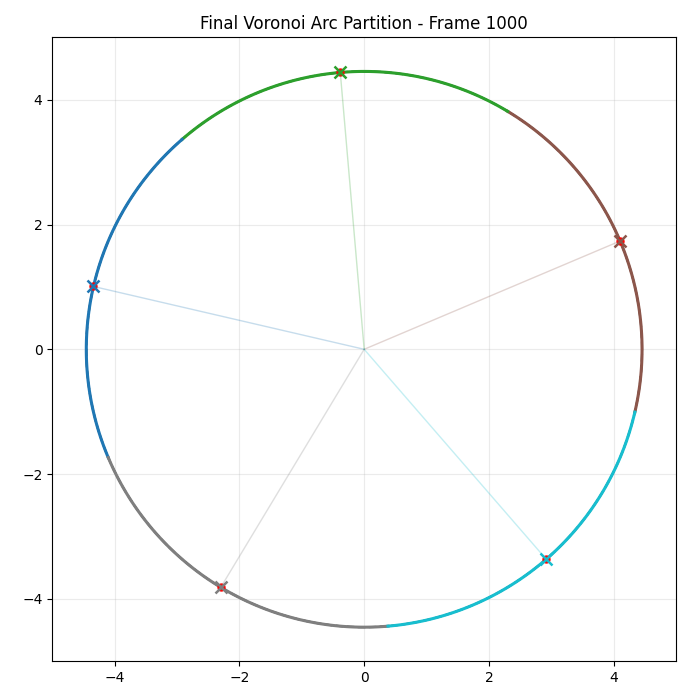
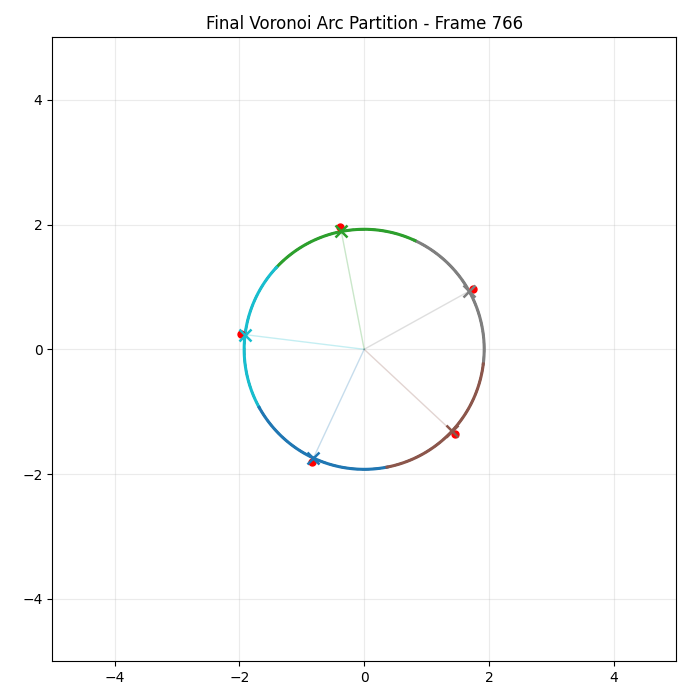
random drone initialization

diff --git a/simulation_engine.py b/simulation_engine.py
@@ -28,6 +28,9 @@ class SimulationEngine:
         self.k_consensus = 0.2
         self.k_r = 1.2
         self.k_phi = 0.8
+        self.edge_band = 0.35
+        self.min_search_speed = 0.35
+        self.max_search_speed = 0.75
 
         # Shared / evolving radius estimate
         self.estimate_r0 = None
@@ -53,10 +56,10 @@ class SimulationEngine:
             true_r0=self.true_r0,
         )
 
-        # Random initial search velocity
-        angle = np.random.uniform(0, 2 * np.pi)
-        vx, vy = 0.5 * np.cos(angle), 0.5 * np.sin(angle)
-        drone.set_velocity(vx, vy)
+        # Random search speed with a fixed heading toward the center from the spawn point.
+        search_speed = np.random.uniform(self.min_search_speed, self.max_search_speed)
+        drone.set_search_speed(search_speed)
+        self._set_search_velocity(drone, direction=np.array([self.true_x0 - x, self.true_y0 - y], dtype=float))
 
         self.drones.append(drone)
         self.estimates_history[drone_id] = {
@@ -70,6 +73,25 @@ class SimulationEngine:
     @staticmethod
     def _wrap_to_pi(angle):
         return (angle + np.pi) % (2 * np.pi) - np.pi
+
+    def _set_search_velocity(self, drone, direction=None):
+        if direction is not None:
+            direction = np.asarray(direction, dtype=float)
+            norm = np.linalg.norm(direction)
+            if norm < 1e-8:
+                direction = None
+            else:
+                drone.last_dir = direction / norm
+
+        if np.linalg.norm(drone.last_dir) < 1e-8:
+            to_center = np.array([self.true_x0 - drone.x, self.true_y0 - drone.y], dtype=float)
+            norm = np.linalg.norm(to_center)
+            if norm < 1e-8:
+                drone.set_velocity(0.0, 0.0)
+                return
+            drone.last_dir = to_center / norm
+
+        drone.set_velocity(*(drone.search_speed * drone.last_dir))
 
     def initial_consensus(self, max_iter=100, tolerance=1e-6):
         """Kept for compatibility. Not required when using frame-by-frame consensus."""
@@ -200,8 +222,9 @@ class SimulationEngine:
         """
         Frame-by-frame control step.
 
-        Includes distributed averaging consensus on radius estimate at each frame,
-        then Voronoi + radial/tangential control law.
+        Drones move in SEARCH toward the center with random speed.
+        When they enter the spill-border neighborhood, they switch to APPROACH,
+        start measuring the radius and perform distributed consensus.
         """
         self.frame += 1
 
@@ -211,23 +234,38 @@ class SimulationEngine:
             self.true_r0 = self.oil_spill.r0
             self.world_field = self.oil_spill.field(self.sim_map.X, self.sim_map.Y)
 
-        # 0) Local measurement update (keep existing measurement logic)
-        for d in self.drones:
-            camera_view = d.get_camera_view(self.world_field, self.sim_map.x_coords, self.sim_map.y_coords)
-            h, w = camera_view.shape
-            win = 2
-            center_val = np.mean(camera_view[h // 2 - win : h // 2 + win + 1, w // 2 - win : w // 2 + win + 1])
-            gps_x, gps_y = d.get_gps_pos()
+        active_drones = []
 
-            if center_val > self.c_star:
-                dist_to_center = np.hypot(gps_x - self.true_x0, gps_y - self.true_y0)
-                d_i = abs(dist_to_center - self.true_r0)
-                d_i_noisy = d_i + np.random.normal(0.0, self.sigma_cam)
-                if dist_to_center <= self.true_r0:
-                    r_i = dist_to_center + d_i_noisy
+        # 0) State update + local measurement only near the spill border
+        for d in self.drones:
+            dist_to_center = np.hypot(d.x - self.true_x0, d.y - self.true_y0)
+            near_edge = abs(dist_to_center - self.true_r0) <= self.edge_band
+
+            if near_edge:
+                d.mode = "APPROACH"
+                active_drones.append(d)
+
+                camera_view = d.get_camera_view(self.world_field, self.sim_map.x_coords, self.sim_map.y_coords)
+                h, w = camera_view.shape
+                win = 2
+                center_val = np.mean(camera_view[h // 2 - win : h // 2 + win + 1, w // 2 - win : w // 2 + win + 1])
+                gps_x, gps_y = d.get_gps_pos()
+
+                if center_val > self.c_star:
+                    d_i = abs(dist_to_center - self.true_r0)
+                    d_i_noisy = d_i + np.random.normal(0.0, self.sigma_cam)
+                    gps_dist_to_center = np.hypot(gps_x - self.true_x0, gps_y - self.true_y0)
+                    if gps_dist_to_center <= self.true_r0:
+                        r_i = gps_dist_to_center + d_i_noisy
+                    else:
+                        r_i = gps_dist_to_center - d_i_noisy
+                    d.estimate_r0 = max(0.05, float(r_i))
+            else:
+                if d.mode != "SEARCH":
+                    d.mode = "SEARCH"
+                    self._set_search_velocity(d)
                 else:
-                    r_i = dist_to_center - d_i_noisy
-                d.estimate_r0 = max(0.05, float(r_i))
+                    d.mode = "SEARCH"
 
             d.estimate_x0 = self.true_x0
             d.estimate_y0 = self.true_y0
@@ -236,15 +274,15 @@ class SimulationEngine:
             self.estimates_history[d.drone_id]["y0"].append(d.estimate_y0)
             self.estimates_history[d.drone_id]["r0_pre"].append(d.estimate_r0)
 
-        # 1) Frame-by-frame distributed consensus (small gain for gradual convergence)
-        if len(self.drones) > 1:
+        # 1) Distributed consensus only among drones close to the border
+        if len(active_drones) > 1:
             alpha = min(self.k_consensus * self.dt, self.k_consensus)
             new_r0 = {}
-            for d in self.drones:
-                neighbors = [n for n in self.drones if n is not d]
+            for d in active_drones:
+                neighbors = [n for n in active_drones if n is not d]
                 mean_neighbors = np.mean([n.estimate_r0 for n in neighbors])
                 new_r0[d] = d.estimate_r0 + alpha * (mean_neighbors - d.estimate_r0)
-            for d in self.drones:
+            for d in active_drones:
                 d.estimate_r0 = float(new_r0[d])
 
         # Shared radius used by control law this frame
@@ -254,15 +292,15 @@ class SimulationEngine:
         for d in self.drones:
             self.estimates_history[d.drone_id]["r0_consensus"].append(d.estimate_r0)
 
-        # 2) Voronoi targets + control law (unchanged in spirit)
+        # 2) Voronoi targets + control law only for drones near the border
         voronoi_arcs = []
         phi_targets = []
 
-        if len(self.drones) >= 2:
-            for d in self.drones:
+        if len(active_drones) >= 2:
+            for d in active_drones:
                 d.phi = np.arctan2(d.y - self.true_y0, d.x - self.true_x0) % (2 * np.pi)
 
-            drones_ccw = sorted(self.drones, key=lambda dr: dr.phi)
+            drones_ccw = sorted(active_drones, key=lambda dr: dr.phi)
             n = len(drones_ccw)
 
             for i, d in enumerate(drones_ccw):
@@ -297,6 +335,21 @@ class SimulationEngine:
                 v = v_radial * radial + v_tangential * tangential
 
                 d.set_velocity(float(v[0]), float(v[1]))
+        elif len(active_drones) == 1:
+            d = active_drones[0]
+            dx = d.x - self.true_x0
+            dy = d.y - self.true_y0
+            dist = np.hypot(dx, dy)
+            if dist < 1e-6:
+                dist = 1e-6
+
+            radial = np.array([dx / dist, dy / dist])
+            tangential = np.array([-dy / dist, dx / dist])
+            radial_error = dist - self.estimate_r0
+            v_radial = -self.k_r * radial_error
+            v_tangential = 0.5 * d.search_speed
+            v = v_radial * radial + v_tangential * tangential
+            d.set_velocity(float(v[0]), float(v[1]))
 
         # 3) Optional real-time Voronoi plot in a separate figure
         should_plot_voronoi = self.visualize_voronoi and plt.get_backend().lower() != "agg"

diff --git a/main.py b/main.py
@@ -28,26 +28,28 @@ def run_multi_drone_simulation(visualize=False, max_frames=5000, seed=42, show_v
         visualize_voronoi=show_voronoi,
     )
 
-    # Random initialization outside circle
+    # Random initialization away from both the map borders and the spill edge.
+    map_margin = 1.0
+    border_band = engine.edge_band
     for i in range(5):
-        angle = np.random.uniform(0, 2 * np.pi)
-        dist = np.random.uniform(spill.r0 + 0.1, spill.r0 + 2.5)
-        x = np.clip(spill.x0 + dist * np.cos(angle), sim_map.xlim[0], sim_map.xlim[1])
-        y = np.clip(spill.y0 + dist * np.sin(angle), sim_map.ylim[0], sim_map.ylim[1])
+        while True:
+            x = np.random.uniform(sim_map.xlim[0] + map_margin, sim_map.xlim[1] - map_margin)
+            y = np.random.uniform(sim_map.ylim[0] + map_margin, sim_map.ylim[1] - map_margin)
+            dist_to_center = np.hypot(x - spill.x0, y - spill.y0)
+            if abs(dist_to_center - spill.r0) > border_band:
+                break
         engine.add_drone(drone_id=f"D{i}", x=x, y=y)
 
     print("Initial drone radius estimates:")
     for d in engine.drones:
         print(f"{d.drone_id}: r0 = {d.estimate_r0:.6f}")
 
-    # NOTE: no one-shot consensus here; consensus runs frame-by-frame in step().
-
     viz = Visualizer(sim_map, spill) if visualize else None
     if not visualize:
         print("Visualization disabled. Headless mode (Agg backend).")
 
     print(f"Starting Multi-Drone Simulation ({max_frames} frames)...")
-    print("Mode: frame-by-frame consensus + Voronoi + continuous control law")
+    print("Mode: SEARCH toward center, then edge measurement + consensus near the spill border")
 
     try:
         for frame in range(max_frames):
@@ -112,7 +114,7 @@ if __name__ == "__main__":
     parser.add_argument("--frames", type=int, default=5000, help="Total number of simulation frames")
     parser.add_argument("--seed", type=int, default=1, help="Random seed")
     parser.add_argument("--show-voronoi", action="store_true", help="Show real-time Voronoi arc plot")
-    parser.add_argument("--spill-growth", type=float, default=0.001, help="Oil spill radius growth rate (units/s)")
+    parser.add_argument("--spill-growth", type=float, default=0.000, help="Oil spill radius growth rate (units/s)")
     args = parser.parse_args()
 
     if not args.visualize:

diff --git a/drone.py b/drone.py
@@ -1,28 +1,31 @@
 import numpy as np
 from sensors import GPSSensor, CameraSensor
 
+
 class Drone:
     """
     Modular Drone class.
     Handles movement, sensor polling, and internal state.
     """
-    def __init__(self, drone_id, x, y, map_bounds, sensor_size=100, 
+
+    def __init__(self, drone_id, x, y, map_bounds, sensor_size=100,
                  gps_noise=0.05, camera_noise=0.05, true_x0=0.0, true_y0=0.0, true_r0=2.0):
         self.drone_id = drone_id
         self.x = x
         self.y = y
-        self.map_bounds = map_bounds # (xmin, xmax, ymin, ymax)
-        
+        self.map_bounds = map_bounds  # (xmin, xmax, ymin, ymax)
+
         # Internal Velocity
         self.vx = 0.0
         self.vy = 0.0
-        
+        self.search_speed = 0.0
+
         # Sensors
         self.gps = GPSSensor(noise_std=gps_noise)
         self.camera = CameraSensor(size=sensor_size, noise_std=camera_noise)
-        
+
         # State Machine
-        self.mode = "SEARCH" # SEARCH, APPROACH, LOCKED
+        self.mode = "SEARCH"  # SEARCH, APPROACH, LOCKED
         self.last_dir = np.array([0.0, 0.0])
 
         # Different initial r0 for each drone (all different from true value)
@@ -45,19 +48,24 @@ class Drone:
         self.vx = vx
         self.vy = vy
 
+    def set_search_speed(self, speed):
+        self.search_speed = float(speed)
+
     def update_position(self, dt):
         """Integrated movement within map boundaries."""
         if self.mode == "LOCKED":
             self.vx, self.vy = 0.0, 0.0
-            
+
         self.x += self.vx * dt
         self.y += self.vy * dt
-        
+
         # Bounce off boundaries
         xmin, xmax, ymin, ymax = self.map_bounds
-        if self.x <= xmin or self.x >= xmax: self.vx *= -1
-        if self.y <= ymin or self.y >= ymax: self.vy *= -1
-        
+        if self.x <= xmin or self.x >= xmax:
+            self.vx *= -1
+        if self.y <= ymin or self.y >= ymax:
+            self.vy *= -1
+
         # Clamp to bounds
         self.x = np.clip(self.x, xmin, xmax)
         self.y = np.clip(self.y, ymin, ymax)
